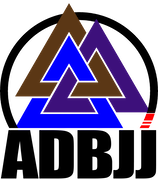
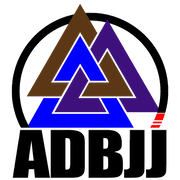
update

diff --git a/index.html b/index.html
@@ -359,8 +359,7 @@
 
         <div class="row justify-content-center">
           <div class="col-lg-6">
-            <a href="#header" class="scrollto footer-logo"><img src="assets/img/hero-logo.png" alt=""></a>
-            <h3>Amigos Del BJJ</h3>
+            <a href="#header" class="scrollto footer-logo"><img src="assets/img/blanco.png" alt=""></a>
             <p>Jiu Jitsu Brasileño en Santiago De Chile.</p>
           </div>
         </div>

diff --git a/assets/css/style.css b/assets/css/style.css
@@ -1407,7 +1407,7 @@ section {
   padding: 80px 0;
 }
 #footer .footer-top .footer-logo img {
-  height: 80px;
+  height: 120px;
 }
 #footer .footer-top h3 {
   font-size: 36px;
